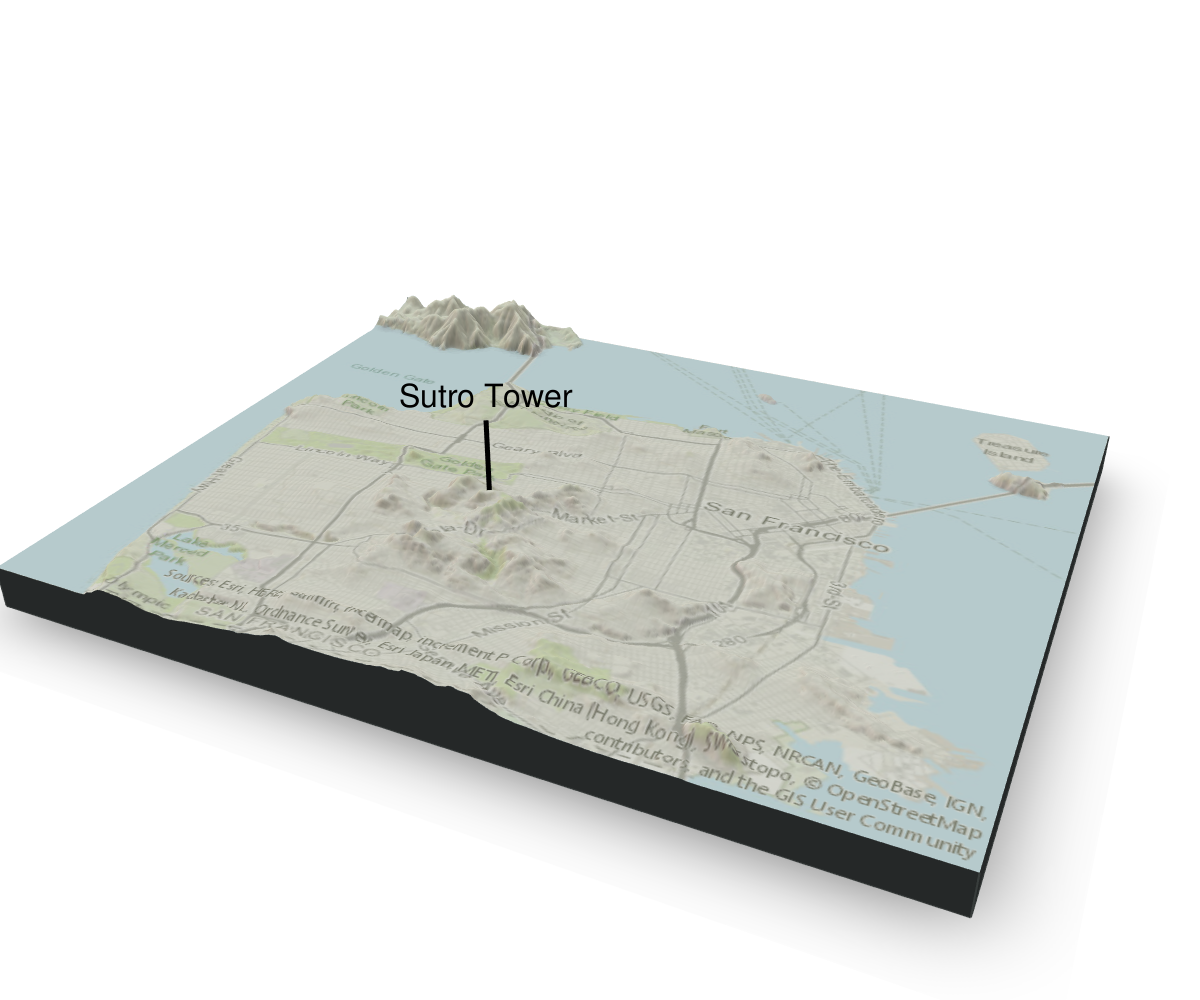
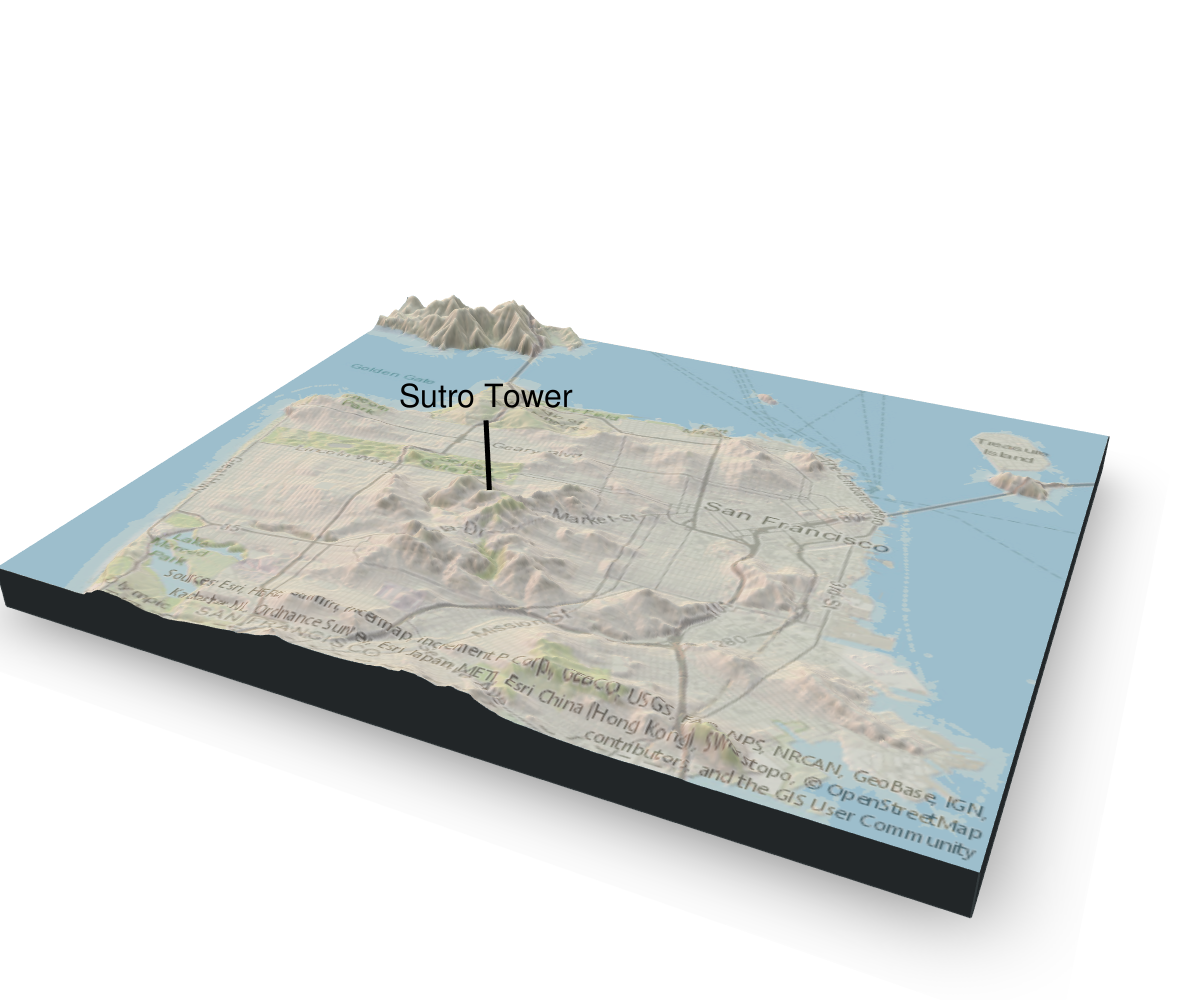
Re-enabling water layer in all 3D plots (snapshots now look good with wateralpha = 0)

Changed region(s): [[0.2158, 0.341, 0.925, 0.868], [0.0, 0.403, 0.2158, 0.589]]

diff --git a/index.html b/index.html
@@ -56,7 +56,7 @@
   <!--/radix_placeholder_rmarkdown_metadata-->
   
   <script type="text/json" id="radix-resource-manifest">
-  {"type":"character","attributes":{},"value":["data/dem_01.tif","data/sf-elevation.tif","data-raw/download-demo-file.R","data-raw/generate-montereybay-gif.R","data-raw/sample-sf-images.R","images/monetereybay-3D.png","images/montereybay.gif","images/one-does-not-simply-gif.jpg","images/raylogosmall.png","images/sf-2D-overlay.png","images/sf-2D.png","images/sf-3D-overlay-label.png","images/sf-3D-overlay.png","images/sf-flyby-small.gif","images/sf-flyby.gif","images/sf-map.png","images/sf-satellite.png","images/sf-street.png","images/sf-topo.png","images/sutro-tower.jpg","index_files/bowser-1.9.3/bowser.min.js","index_files/distill-2.2.21/template.v2.js","index_files/figure-html5/2D-map-1.png","index_files/figure-html5/load-elevation-1.png","index_files/figure-html5/rayshader-2D-overlay-1.png","index_files/figure-html5/rayshader-3D-overlay-label-1.png","index_files/figure-html5/unnamed-chunk-28-1.png","index_files/figure-html5/unnamed-chunk-5-1.png","index_files/figure-html5/unnamed-chunk-7-1.png","index_files/htmlwidgets-1.3/htmlwidgets.js","index_files/jquery-1.12.4/jquery.min.js","index_files/leaflet-1.3.1/images/layers-2x.png","index_files/leaflet-1.3.1/images/layers.png","index_files/leaflet-1.3.1/images/marker-icon-2x.png","index_files/leaflet-1.3.1/images/marker-icon.png","index_files/leaflet-1.3.1/images/marker-shadow.png","index_files/leaflet-1.3.1/leaflet.css","index_files/leaflet-1.3.1/leaflet.js","index_files/leaflet-binding-2.0.2/leaflet.js","index_files/leafletfix-1.0.0/leafletfix.css","index_files/Proj4Leaflet-1.0.1/proj4-compressed.js","index_files/Proj4Leaflet-1.0.1/proj4leaflet.js","index_files/rstudio_leaflet-1.3.1/images/1px.png","index_files/rstudio_leaflet-1.3.1/rstudio_leaflet.css","index_files/webcomponents-2.0.0/webcomponents.js","R/elevation-api.R","R/find-image-coordinates.R","R/image-size.R","R/map-image-api.R","R/rayshader-gif.R","R/read-elevation.R"]}
+  {"type":"character","attributes":{},"value":["data/dem_01.tif","data/sf-elevation.tif","data-raw/download-demo-file.R","data-raw/generate-montereybay-gif.R","data-raw/sample-sf-images.R","images/monetereybay-3D.png","images/montereybay.gif","images/one-does-not-simply-gif.jpg","images/raylogosmall.png","images/sf-2D-overlay.png","images/sf-2D.png","images/sf-3D-overlay-label.png","images/sf-3D-overlay.png","images/sf-flyby-small.gif","images/sf-flyby.gif","images/sf-map.png","images/sf-satellite.png","images/sf-street.png","images/sf-topo.png","images/sutro-tower.jpg","index_files/bowser-1.9.3/bowser.min.js","index_files/distill-2.2.21/template.v2.js","index_files/figure-html5/2D-map-1.png","index_files/figure-html5/load-elevation-1.png","index_files/figure-html5/rayshader-2D-overlay-1.png","index_files/figure-html5/rayshader-3D-overlay-label-1.png","index_files/figure-html5/unnamed-chunk-28-1.png","index_files/figure-html5/unnamed-chunk-5-1.png","index_files/figure-html5/unnamed-chunk-7-1.png","index_files/htmlwidgets-1.3/htmlwidgets.js","index_files/jquery-1.12.4/jquery.min.js","index_files/leaflet-1.3.1/images/layers-2x.png","index_files/leaflet-1.3.1/images/layers.png","index_files/leaflet-1.3.1/images/marker-icon-2x.png","index_files/leaflet-1.3.1/images/marker-icon.png","index_files/leaflet-1.3.1/images/marker-shadow.png","index_files/leaflet-1.3.1/leaflet.css","index_files/leaflet-1.3.1/leaflet.js","index_files/leaflet-binding-2.0.2/leaflet.js","index_files/leafletfix-1.0.0/leafletfix.css","index_files/Proj4Leaflet-1.0.1/proj4-compressed.js","index_files/Proj4Leaflet-1.0.1/proj4leaflet.js","index_files/rstudio_leaflet-1.3.1/images/1px.png","index_files/rstudio_leaflet-1.3.1/rstudio_leaflet.css","index_files/webcomponents-2.0.0/webcomponents.js","R/elevation-api.R","R/find-image-coordinates.R","R/image-size.R","R/map-image-api.R","R/rayshader-gif.R","R/read-elevation.R","temp/sf-elevation.tif","temp/sf-map.png","temp/sf-map.R"]}
   </script>
   <!--radix_placeholder_navigation_in_header-->
   <!--/radix_placeholder_navigation_in_header-->
@@ -1061,8 +1061,8 @@ leaflet() %&gt;%
     lng1 = bbox$p1$long, lat1 = bbox$p1$lat,
     lng2 = bbox$p2$long, lat2 = bbox$p2$lat,
   )</code></pre>
-<div id="htmlwidget-35b86c5fe65b473a3ecb" style="width:624px;height:384px;" class="leaflet html-widget"></div>
-<script type="application/json" data-for="htmlwidget-35b86c5fe65b473a3ecb">{"x":{"options":{"crs":{"crsClass":"L.CRS.EPSG3857","code":null,"proj4def":null,"projectedBounds":null,"options":{}}},"calls":[{"method":"addTiles","args":["//{s}.tile.openstreetmap.org/{z}/{x}/{y}.png",null,null,{"minZoom":0,"maxZoom":18,"tileSize":256,"subdomains":"abc","errorTileUrl":"","tms":false,"noWrap":false,"zoomOffset":0,"zoomReverse":false,"opacity":1,"zIndex":1,"detectRetina":false,"attribution":"&copy; <a href=\"http://openstreetmap.org\">OpenStreetMap<\/a> contributors, <a href=\"http://creativecommons.org/licenses/by-sa/2.0/\">CC-BY-SA<\/a>"}]},{"method":"addRectangles","args":[37.707,-122.522,37.84,-122.354,null,null,{"interactive":true,"className":"","stroke":true,"color":"#03F","weight":5,"opacity":0.5,"fill":true,"fillColor":"transparent","fillOpacity":0.2,"smoothFactor":1,"noClip":false},null,null,null,{"interactive":false,"permanent":false,"direction":"auto","opacity":1,"offset":[0,0],"textsize":"10px","textOnly":false,"className":"","sticky":true},null]}],"limits":{"lat":[37.707,37.84],"lng":[-122.522,-122.354]},"fitBounds":[37.707,-122.522,37.84,-122.354,[]]},"evals":[],"jsHooks":[]}</script>
+<div id="htmlwidget-0cbe7c085db6d7ae4e4d" style="width:624px;height:384px;" class="leaflet html-widget"></div>
+<script type="application/json" data-for="htmlwidget-0cbe7c085db6d7ae4e4d">{"x":{"options":{"crs":{"crsClass":"L.CRS.EPSG3857","code":null,"proj4def":null,"projectedBounds":null,"options":{}}},"calls":[{"method":"addTiles","args":["//{s}.tile.openstreetmap.org/{z}/{x}/{y}.png",null,null,{"minZoom":0,"maxZoom":18,"tileSize":256,"subdomains":"abc","errorTileUrl":"","tms":false,"noWrap":false,"zoomOffset":0,"zoomReverse":false,"opacity":1,"zIndex":1,"detectRetina":false,"attribution":"&copy; <a href=\"http://openstreetmap.org\">OpenStreetMap<\/a> contributors, <a href=\"http://creativecommons.org/licenses/by-sa/2.0/\">CC-BY-SA<\/a>"}]},{"method":"addRectangles","args":[37.707,-122.522,37.84,-122.354,null,null,{"interactive":true,"className":"","stroke":true,"color":"#03F","weight":5,"opacity":0.5,"fill":true,"fillColor":"transparent","fillOpacity":0.2,"smoothFactor":1,"noClip":false},null,null,null,{"interactive":false,"permanent":false,"direction":"auto","opacity":1,"offset":[0,0],"textsize":"10px","textOnly":false,"className":"","sticky":true},null]}],"limits":{"lat":[37.707,37.84],"lng":[-122.522,-122.354]},"fitBounds":[37.707,-122.522,37.84,-122.354,[]]},"evals":[],"jsHooks":[]}</script>
 </div>
 <h3 id="setting-the-image-size">Setting the Image Size</h3>
 <p>Next is a small but important step. We need to define an <strong>image size</strong> to use based on our selected bounding box coordinates. Both our elevation data and our map overlay will be downloaded as image files (I think the term “image” file either means more than I know about, or it plays double-duty for data encoding with this spatial data). For our <code>rayshader</code> maps to work, two things are required:</p>
@@ -1164,12 +1164,13 @@ elev_matrix %&gt;%
 zscale &lt;- 10
 rgl::clear3d()
 elev_matrix %&gt;% 
-  sphere_shade(zscale = zscale, texture = &quot;imhof4&quot;) %&gt;% 
+  sphere_shade(texture = &quot;imhof4&quot;) %&gt;% 
+  add_water(watermap, color = &quot;imhof4&quot;) %&gt;%
   add_overlay(overlay_img, alphalayer = 0.5) %&gt;%
   add_shadow(raymat, max_darken = 0.5) %&gt;%
   add_shadow(ambmat, max_darken = 0.5) %&gt;%
   plot_3d(elev_matrix, zscale = zscale, windowsize = c(1200, 1000),
-          water = FALSE, soliddepth = -max(elev_matrix)/zscale,
+          water = TRUE, soliddepth = -max(elev_matrix)/zscale, wateralpha = 0,
           theta = 25, phi = 30, zoom = 0.65, fov = 60)
 render_snapshot()</code></pre>
 </div>
@@ -1188,12 +1189,13 @@ label_pos &lt;- find_image_coordinates(
 zscale &lt;- 10
 rgl::clear3d()
 elev_matrix %&gt;% 
-  sphere_shade(zscale = zscale, texture = &quot;imhof4&quot;) %&gt;% 
+  sphere_shade(texture = &quot;imhof4&quot;) %&gt;% 
+  add_water(watermap, color = &quot;imhof4&quot;) %&gt;%
   add_overlay(overlay_img, alphalayer = 0.5) %&gt;%
   add_shadow(raymat, max_darken = 0.5) %&gt;%
   add_shadow(ambmat, max_darken = 0.5) %&gt;%
   plot_3d(elev_matrix, zscale = zscale, windowsize = c(1200, 1000),
-          water = FALSE, soliddepth = -max(elev_matrix)/zscale,
+          water = TRUE, soliddepth = -max(elev_matrix)/zscale, wateralpha = 0,
           theta = 25, phi = 30, zoom = 0.65, fov = 60)
 # add label
 render_label(elev_matrix, x = label_pos$x, y = label_pos$y, z = 500, 
@@ -1242,7 +1244,7 @@ img_frames &lt;- paste0(&quot;drain&quot;, seq_len(n_frames), &quot;.png&quot;)
 for (i in seq_len(frames)) {
   message(paste(&quot; - image&quot;, i, &quot;of&quot;, n_frames))
   elev_matrix %&gt;%
-    sphere_shade(texture = &quot;imhof1&quot;, zscale = 10) %&gt;%
+    sphere_shade(texture = &quot;imhof1&quot;) %&gt;%
     add_shadow(ambmat, 0.5) %&gt;%
     add_shadow(raymat, 0.5) %&gt;%
     plot_3d(elev_matrix, solid = TRUE, shadow = TRUE, zscale = zscale, 
@@ -1298,14 +1300,14 @@ zoom &lt;- transition_values(from = 0.4, to = 0.8, steps = n_frames,
 # GIF it!
 zscale &lt;- 10
 elev_matrix %&gt;% 
-  sphere_shade(zscale = zscale, texture = &quot;imhof4&quot;) %&gt;% 
+  sphere_shade(texture = &quot;imhof4&quot;) %&gt;% 
   add_water(watermap, color = &quot;imhof4&quot;) %&gt;%
   add_overlay(overlay_img, alphalayer = 0.5) %&gt;%
   add_shadow(raymat, 0.4) %&gt;%
   add_shadow(ambmat, 0.4) %&gt;%
   save_3d_gif(elev_matrix, file = &quot;images/sf-flyby.gif&quot;, duration = 6,
-              zscale = zscale, windowsize = c(1200, 1000),
-              water = FALSE, soliddepth = -max(elev_matrix)/zscale,
+              zscale = zscale, windowsize = c(1200, 1000), wateralpha = 0,
+              water = TRUE, soliddepth = -max(elev_matrix)/zscale, 
               theta = theta, phi = phi, zoom = zoom, fov = 60)</code></pre>
 </div>
 <div class="layout-chunk" data-layout="l-body">
